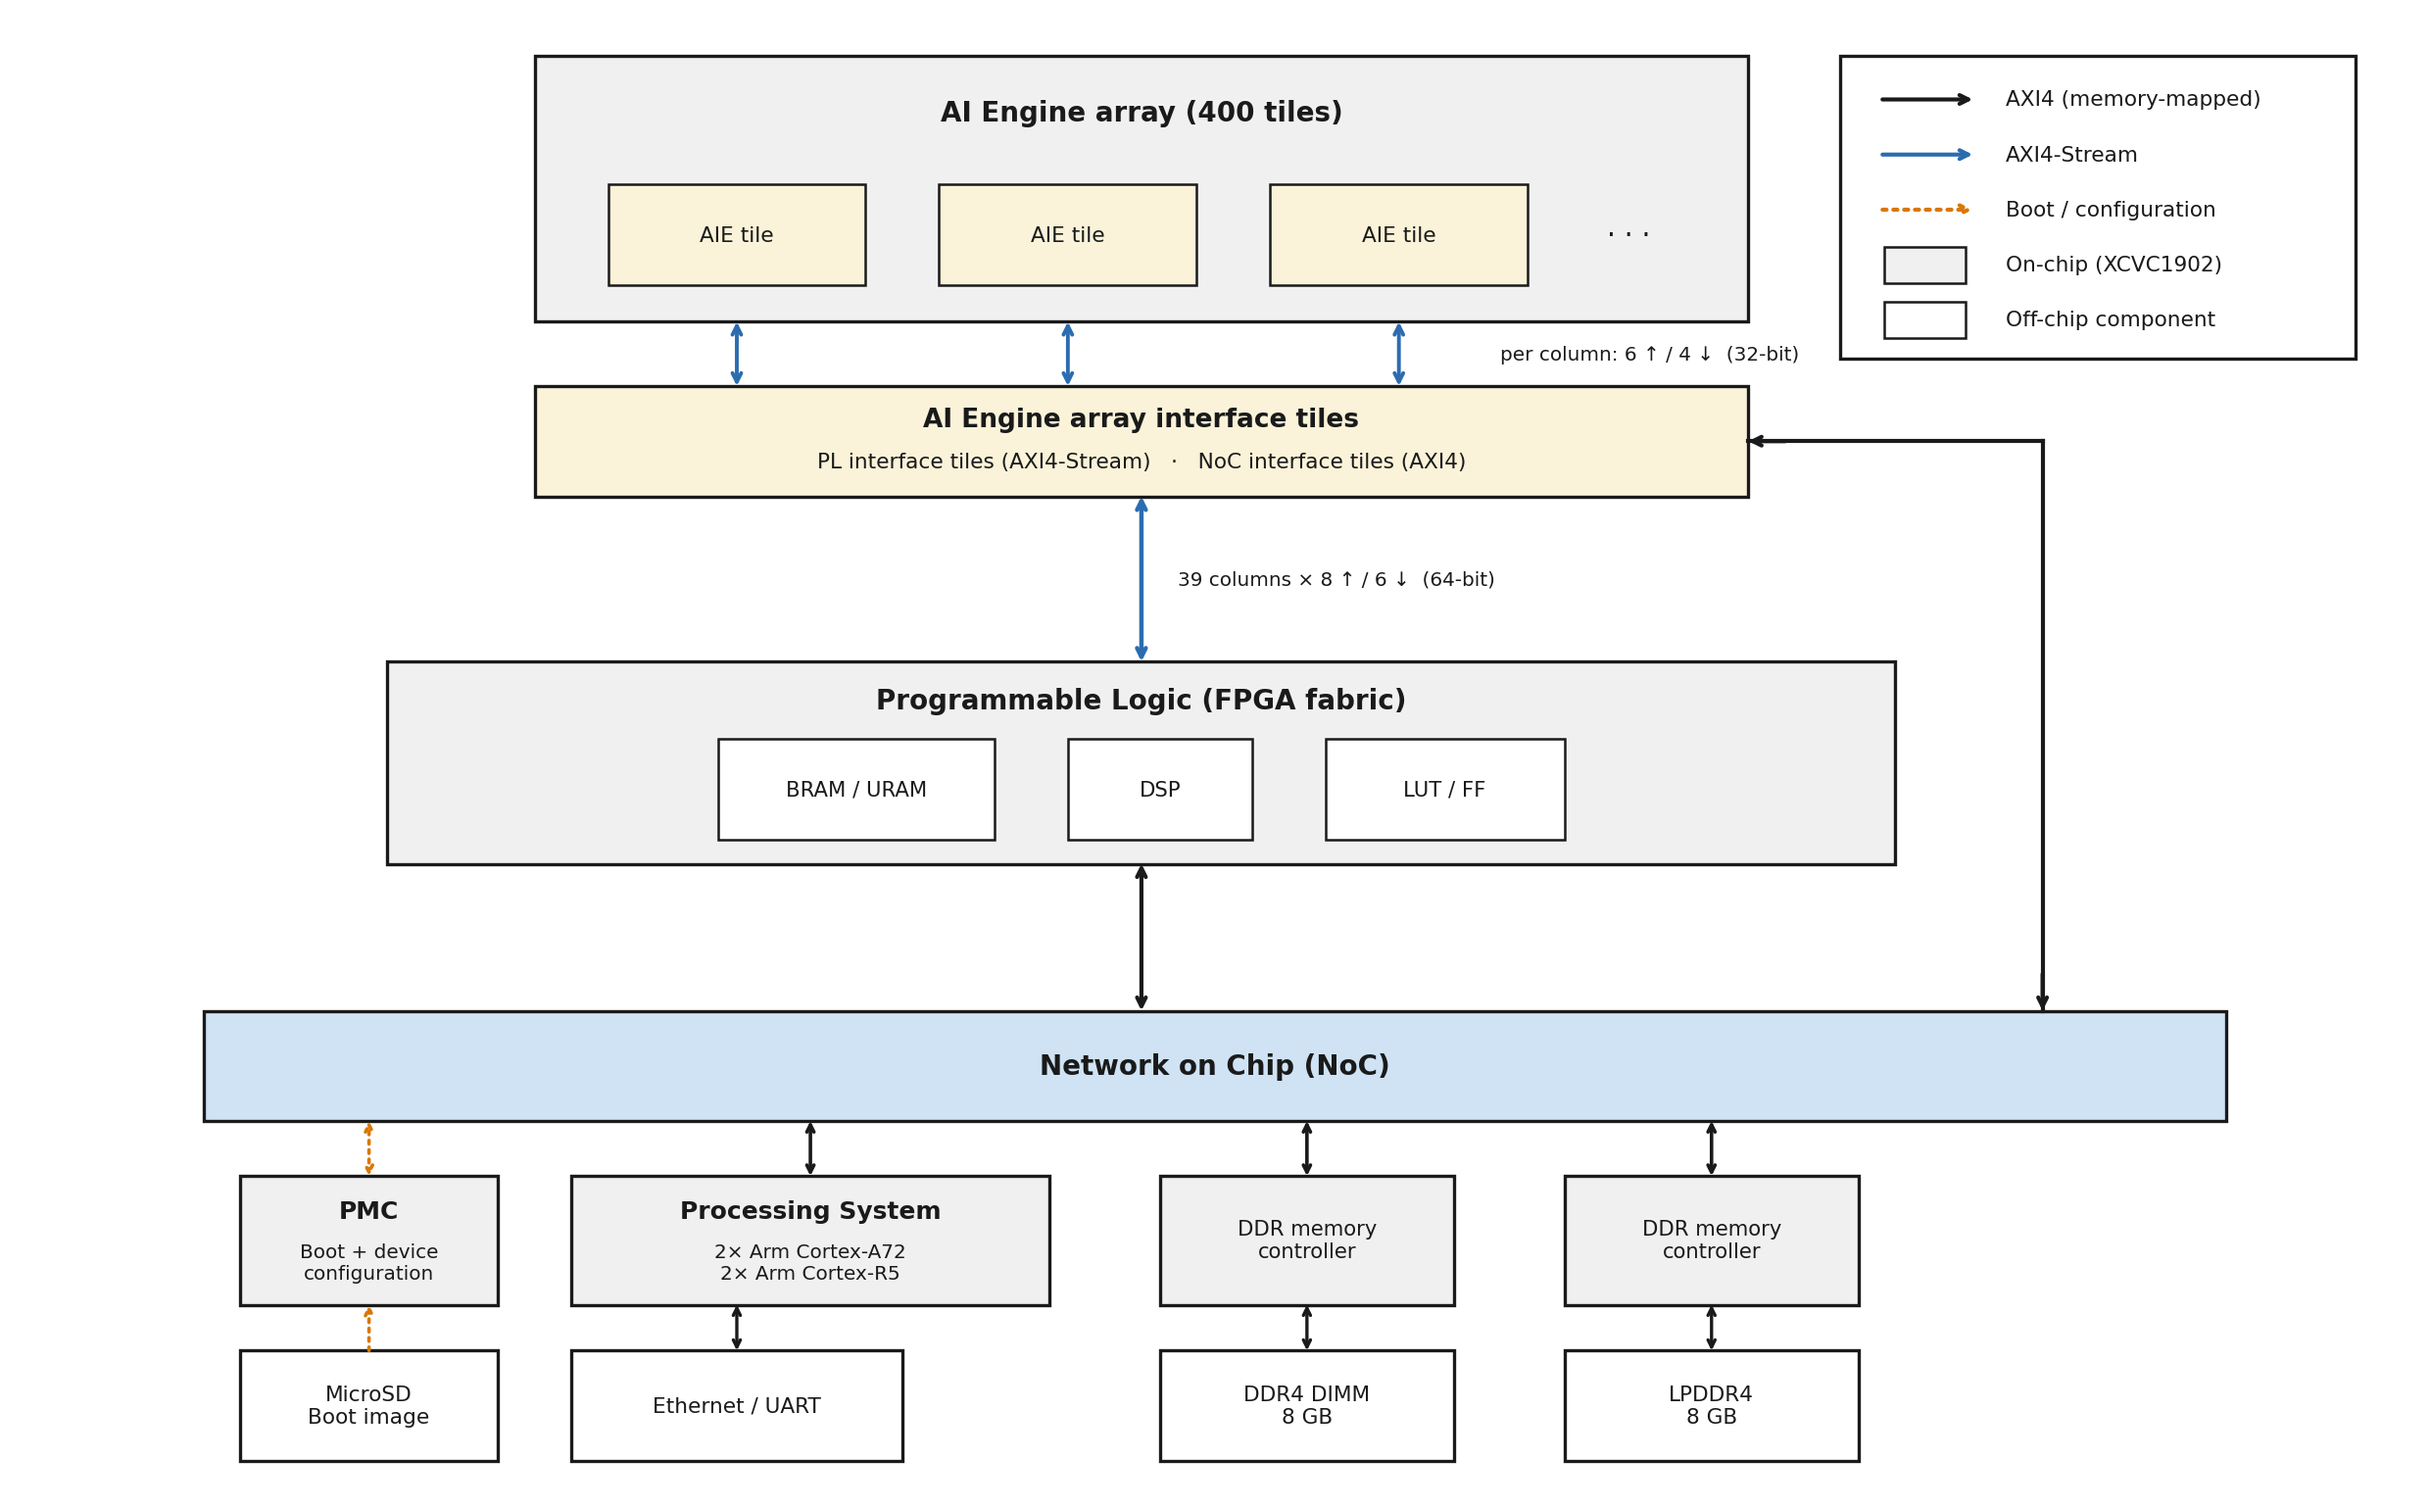
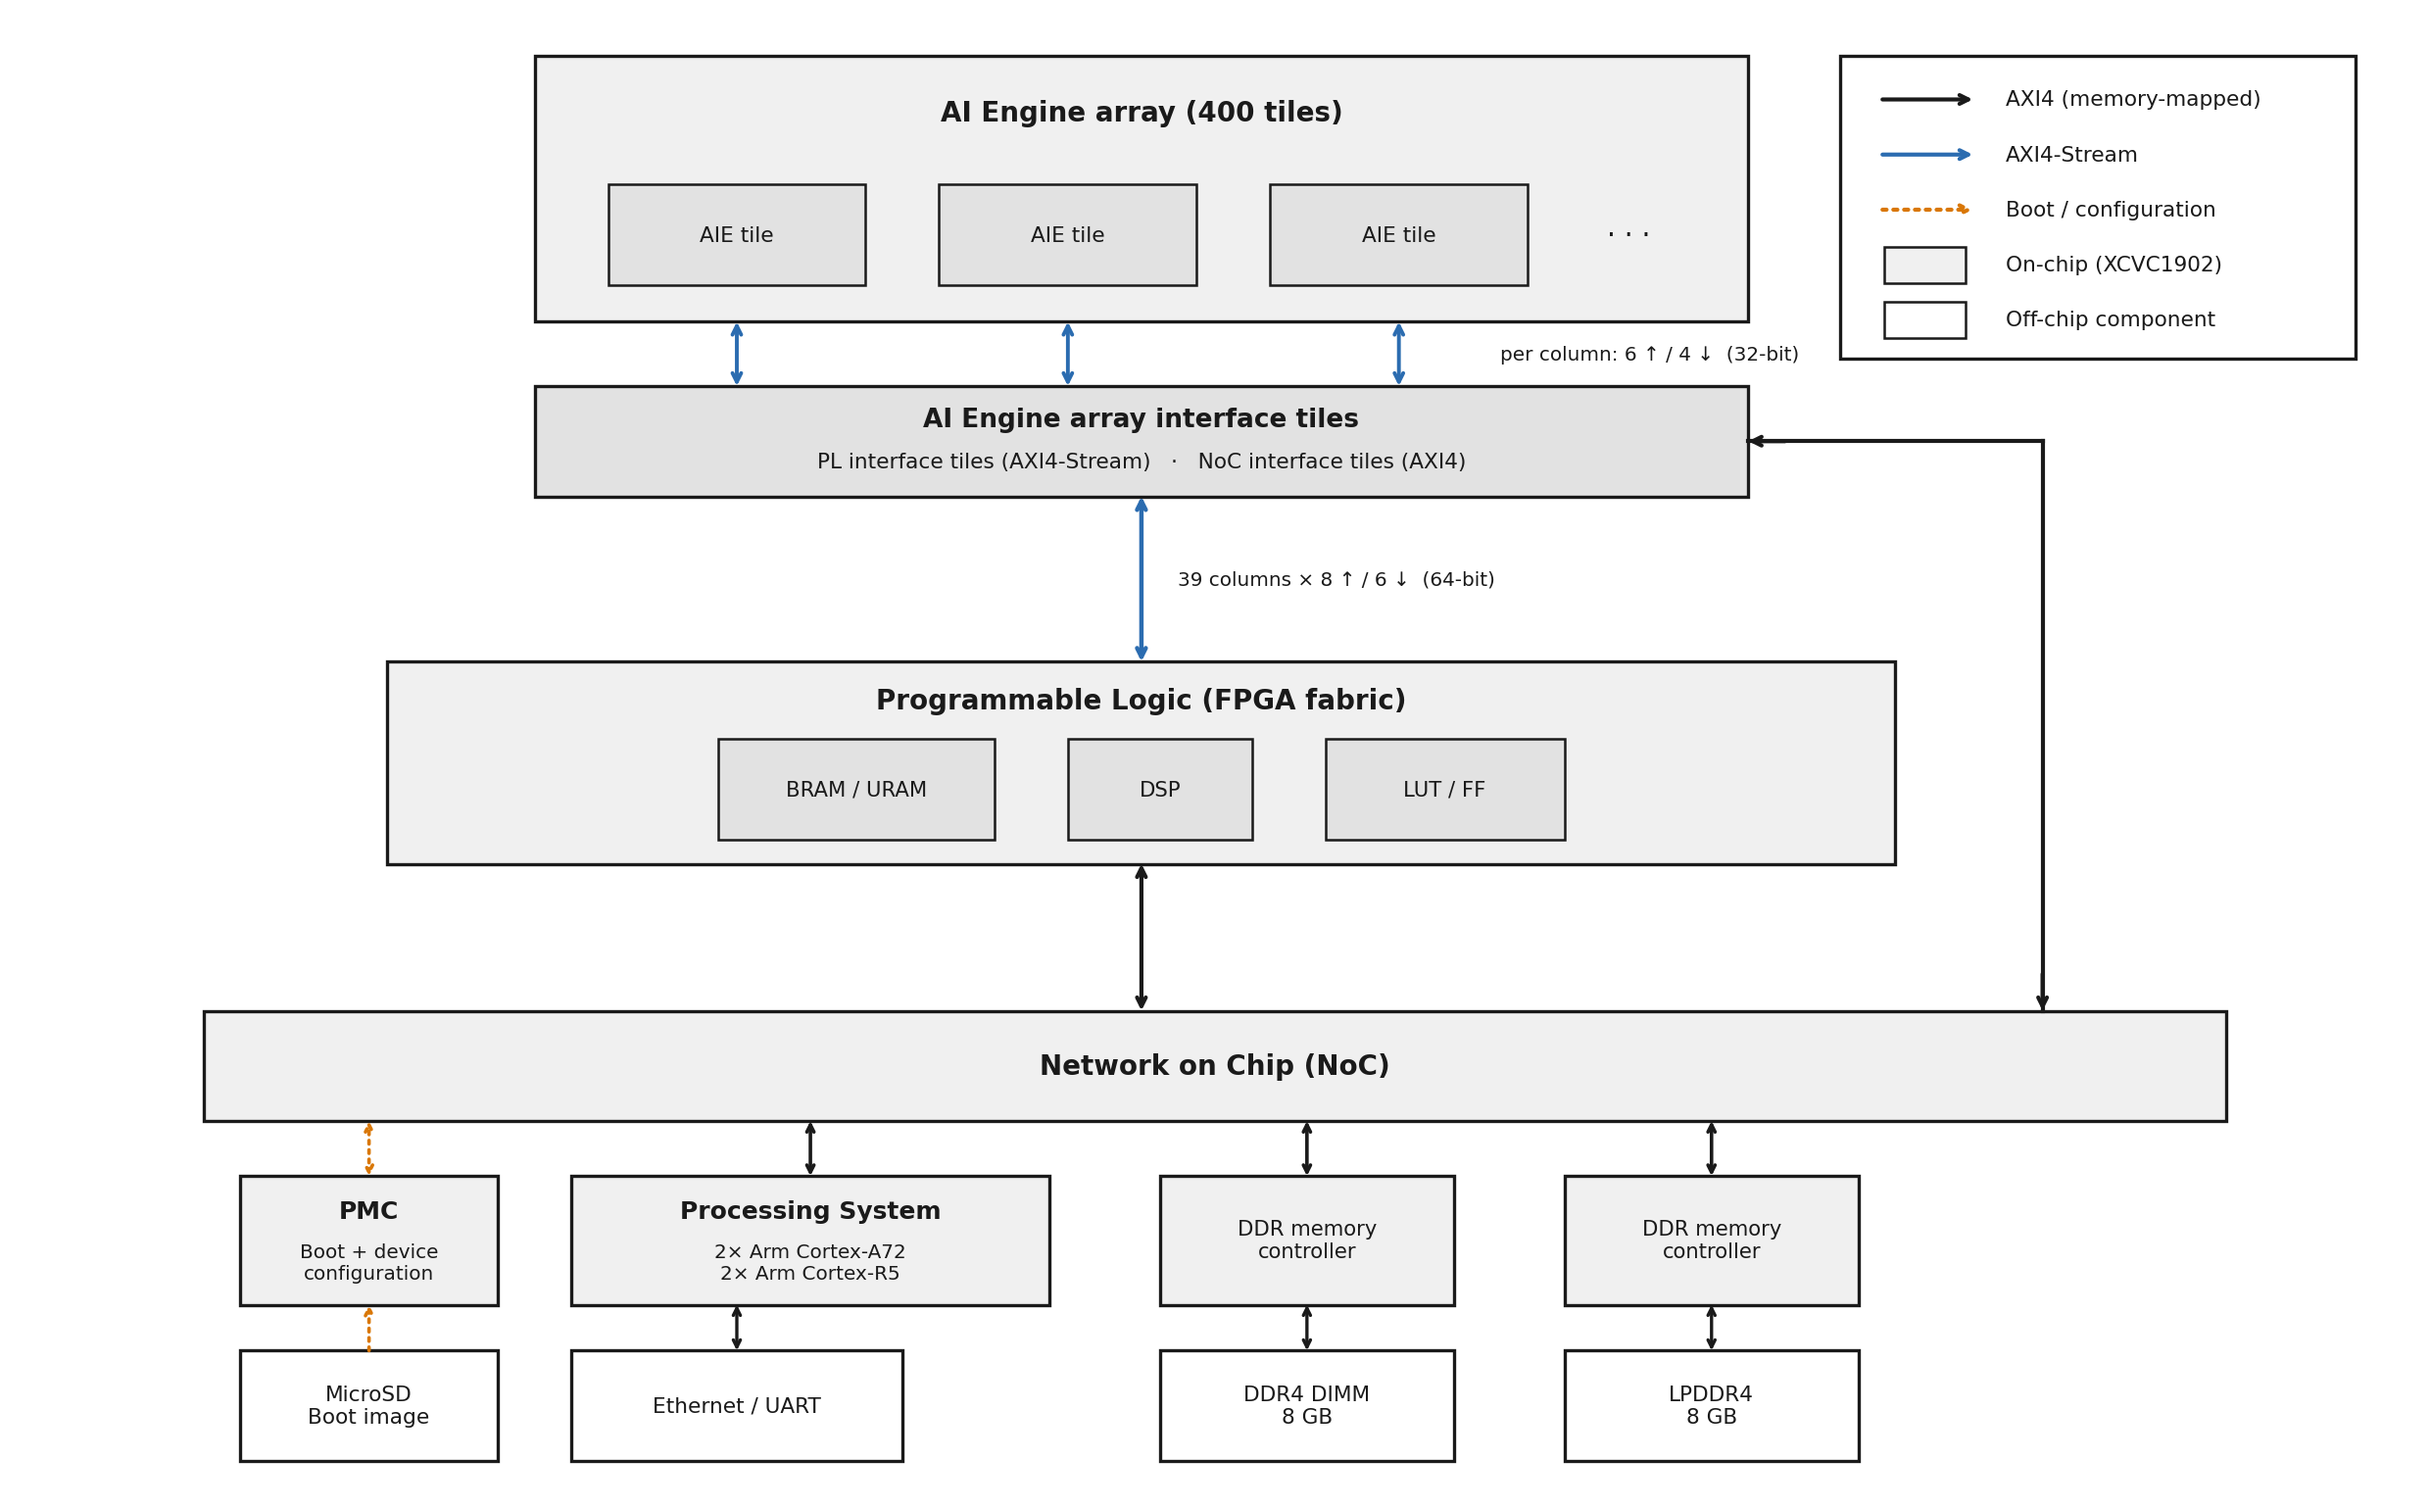
schematic: unify fills with the legend semantics
Gray family = on-chip (sub-blocks one step darker), white = off-chip;
drop the undefined tan and blue fills, and the PL resource chips no
longer read as off-chip.

Changed region(s): [[0.0621, 0.655, 0.9318, 0.7485], [0.2795, 0.4678, 0.6523, 0.5614]]

diff --git a/scripts/make_vck190_schematic.py b/scripts/make_vck190_schematic.py
@@ -16,8 +16,7 @@ import matplotlib.pyplot as plt
 from matplotlib.patches import Rectangle, FancyArrowPatch
 
 ONCHIP  = "#f0f0f0"
-CREAM   = "#faf3d9"
-NOCBLUE = "#cfe3f5"
+ONCHIP2 = "#e2e2e2"   # on-chip sub-blocks
 BLACK   = "#1a1a1a"
 BLUE    = "#2b6cb0"
 ORANGE  = "#d97706"
@@ -43,12 +42,12 @@ def arrow(p0, p1, color=BLACK, lw=1.5, ls="-", both=True, z=4, head=8):
 box(28, 63.5, 94, 78, fc=ONCHIP)
 txt(61, 74.9, "AI Engine array (400 tiles)", 10, "bold")
 for x0 in (32, 50, 68):
-    box(x0, 65.5, x0 + 14, 71, fc=CREAM, lw=0.9, z=3)
+    box(x0, 65.5, x0 + 14, 71, fc=ONCHIP2, lw=0.9, z=3)
     txt(x0 + 7, 68.2, "AIE tile", 7.8, z=6)
 txt(87.5, 68.2, "· · ·", 10)
 
 # ---------------- AIE array interface ----------------
-box(28, 54, 94, 60, fc=CREAM)
+box(28, 54, 94, 60, fc=ONCHIP2)
 txt(61, 58.2, "AI Engine array interface tiles", 9.5, "bold")
 txt(61, 55.9, "PL interface tiles (AXI4-Stream)   ·   NoC interface tiles (AXI4)", 7.8)
 for x in (39, 57, 75):
@@ -59,7 +58,7 @@ txt(80.5, 61.75, "per column: 6 \u2191 / 4 \u2193  (32-bit)", 7.2, ha="left")
 box(20, 34, 102, 45, fc=ONCHIP)
 txt(61, 42.9, "Programmable Logic (FPGA fabric)", 10, "bold")
 for x0, x1, lab in [(38, 53, "BRAM / URAM"), (57, 67, "DSP"), (71, 84, "LUT / FF")]:
-    box(x0, 35.3, x1, 40.8, fc="white", lw=0.9, z=3)
+    box(x0, 35.3, x1, 40.8, fc=ONCHIP2, lw=0.9, z=3)
     txt((x0 + x1) / 2, 38.05, lab, 7.6, z=6)
 
 # PL <-> AIE interface: direct AXI4-Stream through the PL interface tiles
@@ -73,7 +72,7 @@ arrow((96, 57), (94, 57), both=False)
 arrow((110, 28), (110, 26), both=False)
 
 # ---------------- NoC ----------------
-box(10, 20, 120, 26, fc=NOCBLUE)
+box(10, 20, 120, 26, fc=ONCHIP)
 txt(65, 23, "Network on Chip (NoC)", 10, "bold")
 arrow((61, 34), (61, 26))            # PL <-> NoC
 
